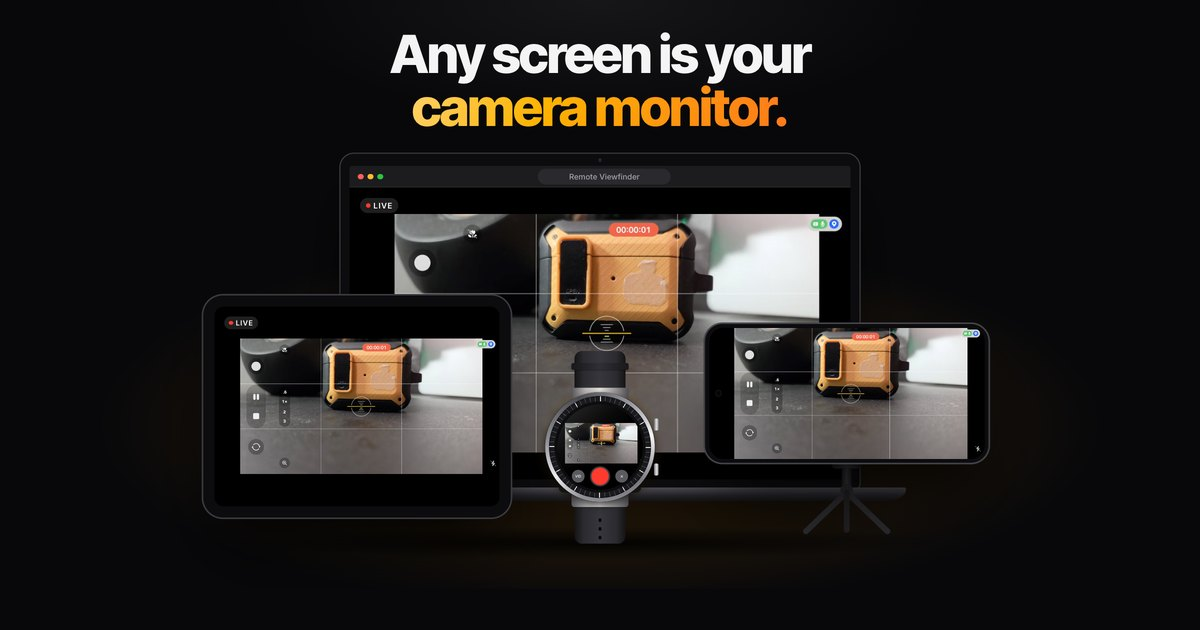
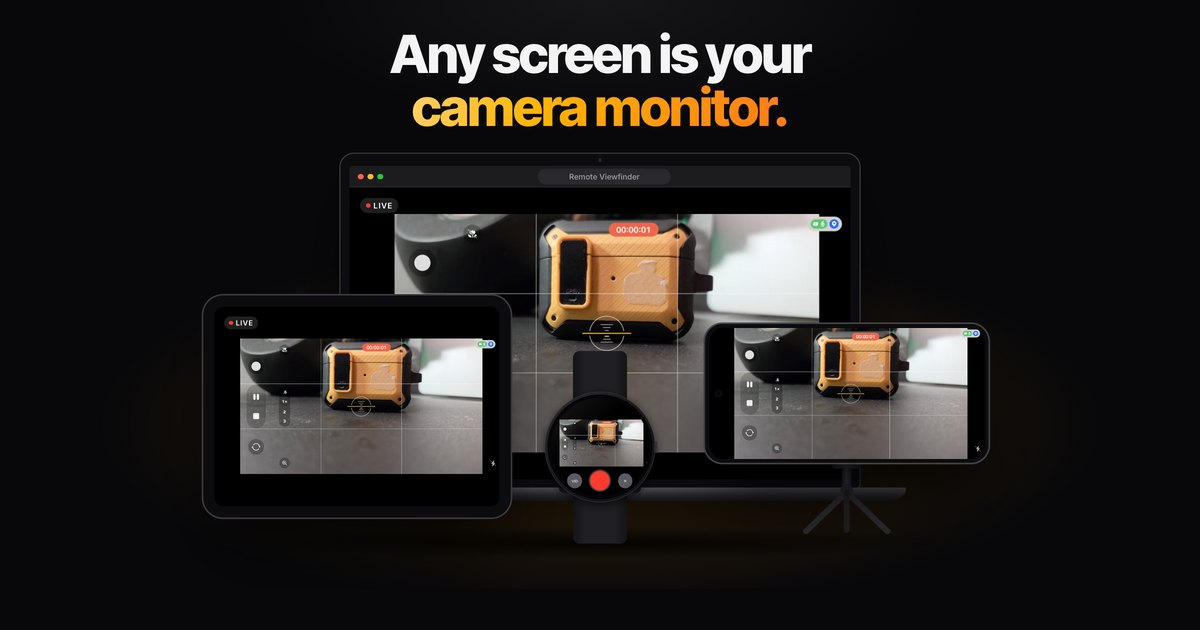
Restyle watch after Pixel Watch 5: plain domed case, no bezel ticks
Replaces the steel case, tick-marked bezel, lugs and strap details with a
matte round case, near-invisible bezel, single crown and an integrated
band. Social preview regenerated.

Verified in headless Chrome: renders at desktop and 390px; demo sync, tap
and recording-state timings unchanged.

Claude-Session: https://claude.ai/code/session_01K1ahzEekL5Mc2k6rW7wFe6

Changed region(s): [[0.4317, 0.6032, 0.555, 0.8143]]

diff --git a/index.html b/index.html
@@ -174,49 +174,27 @@
   .wdev { left: 43.25cqw; top: 29.5cqw; width: 13.5cqw; z-index: 4; }
   .watch { position: relative; container-type: inline-size; aspect-ratio: 1; }
   .strap {
-    position: absolute; left: 26.5%; right: 26.5%; height: 68%; z-index: 0;
-    background: linear-gradient(90deg, #141416, #2b2b30 18%, #36363c 50%, #2b2b30 82%, #141416);
+    position: absolute; left: 25%; right: 25%; height: 66%; z-index: 0;
+    background: linear-gradient(90deg, #141417, #202024 22%, #202024 78%, #141417);
   }
-  .strap.top { bottom: 70%; border-radius: 7cqw 7cqw 0 0; }
-  .strap.bottom { top: 70%; border-radius: 0 0 7cqw 7cqw; }
-  .strap.top::after {
-    content: ""; position: absolute; left: -5%; right: -5%; top: 11cqw; height: 6cqw; border-radius: 1.6cqw;
-    background: linear-gradient(90deg, #18181b, #2f2f35 50%, #18181b); box-shadow: 0 .5cqw 1cqw rgba(0,0,0,.5);
-  }
-  .strap.bottom::after {
-    content: ""; position: absolute; left: 50%; top: 45cqw; width: 3.2cqw; height: 3.2cqw; margin-left: -1.6cqw; border-radius: 50%;
-    background: #0a0a0b; box-shadow: 0 8cqw 0 #0a0a0b, 0 16cqw 0 #0a0a0b;
-  }
-  .lug {
-    position: absolute; left: 24%; right: 24%; height: 16%; z-index: 1;
-    background: linear-gradient(90deg, #55555d, #b9b9c0 25%, #ececef 50%, #9d9da5 75%, #4d4d55);
-  }
-  .lug.top { top: -4.5%; border-radius: 2.6cqw 2.6cqw 0 0; } .lug.bottom { bottom: -4.5%; border-radius: 0 0 2.6cqw 2.6cqw; }
+  .strap.top { bottom: 72%; border-radius: 6cqw 6cqw 0 0; }
+  .strap.bottom { top: 72%; border-radius: 0 0 6cqw 6cqw; }
   .case {
-    position: absolute; inset: 0; z-index: 2; border-radius: 50%; padding: 3.4cqw;
-    background: conic-gradient(from 200deg, #8e8e96, #ececf0 10%, #8a8a92 22%, #4a4a52 38%, #9d9da5 55%, #f4f4f6 66%, #7a7a82 80%, #8e8e96);
-    box-shadow: 0 0 0 .35cqw rgba(0,0,0,.45), 0 3cqw 8cqw rgba(0,0,0,.7), 0 0 10cqw rgba(255,170,0,.14);
+    position: absolute; inset: 0; z-index: 2; border-radius: 50%; padding: 2cqw;
+    background: radial-gradient(circle at 35% 28%, #2c2c31, #151518 70%);
+    box-shadow: 0 0 0 .5cqw #3a3a40, 0 3cqw 8cqw rgba(0,0,0,.7);
   }
-  .case::before, .case::after {
-    content: ""; position: absolute; right: -3.2cqw; width: 4cqw; height: 11cqw; border-radius: 1.4cqw;
-    background: linear-gradient(90deg, #6b6b73, #e4e4e7 55%, #8a8a92);
+  .case::before {
+    content: ""; position: absolute; right: -2.6cqw; top: 50%; width: 3.2cqw; height: 10cqw; margin-top: -5cqw;
+    border-radius: 1.2cqw; background: linear-gradient(90deg, #26262b, #3d3d43);
   }
-  .case::before { top: 24%; } .case::after { bottom: 24%; }
-  .bezel {
-    height: 100%; border-radius: 50%; padding: 7.5cqw;
-    background:
-      repeating-conic-gradient(rgba(255,255,255,.85) 0 1deg, transparent 1deg 30deg),
-      repeating-conic-gradient(rgba(255,255,255,.3) 0 .5deg, transparent .5deg 6deg),
-      radial-gradient(circle, #1d1d21 60%, #0d0d0f);
-    box-shadow: inset 0 0 0 .5cqw rgba(0,0,0,.6);
-  }
-  .display {
-    position: relative; height: 100%; border-radius: 50%; overflow: hidden; background: #000;
-    box-shadow: 0 0 0 2.6cqw #0d0d0f;
-  }
+  .bezel { height: 100%; border-radius: 50%; padding: 2.8cqw; background: #050506; }
+  .display { position: relative; height: 100%; border-radius: 50%; overflow: hidden; background: #000; }
   .display::after {
     content: ""; position: absolute; inset: 0; border-radius: 50%; pointer-events: none; z-index: 4;
-    background: linear-gradient(140deg, rgba(255,255,255,.18), rgba(255,255,255,.04) 35%, transparent 52%);
+    background:
+      radial-gradient(circle, transparent 64%, rgba(0,0,0,.4) 100%),
+      linear-gradient(140deg, rgba(255,255,255,.1), transparent 38%);
   }
   .wfeed { position: absolute; left: 0; right: 0; top: 22%; aspect-ratio: 978 / 466; }
   .wfeed video { width: 100%; height: 100%; object-fit: cover; }
@@ -412,7 +390,7 @@
 
         <div class="dev wdev">
           <div class="watch">
-            <i class="strap top"></i><i class="strap bottom"></i><i class="lug top"></i><i class="lug bottom"></i>
+            <i class="strap top"></i><i class="strap bottom"></i>
             <div class="case"><div class="bezel"><div class="display">
               <div class="wfeed"><video src="img/live.mp4" poster="img/live-poster.jpg" muted loop playsinline autoplay preload="auto"></video></div>
               <span class="wb vid">VID</span>
@@ -529,7 +507,7 @@
           <p>Live preview and a shutter on any Wear OS watch. The button turns red while you record. Works away from Wi‑Fi.</p>
         </div>
         <div class="watch">
-          <i class="strap top"></i><i class="strap bottom"></i><i class="lug top"></i><i class="lug bottom"></i>
+          <i class="strap top"></i><i class="strap bottom"></i>
           <div class="case"><div class="bezel"><div class="display">
             <div class="wfeed"><video src="img/live.mp4" poster="img/live-poster.jpg" muted loop playsinline autoplay preload="metadata"></video></div>
             <span class="wb vid">VID</span>
